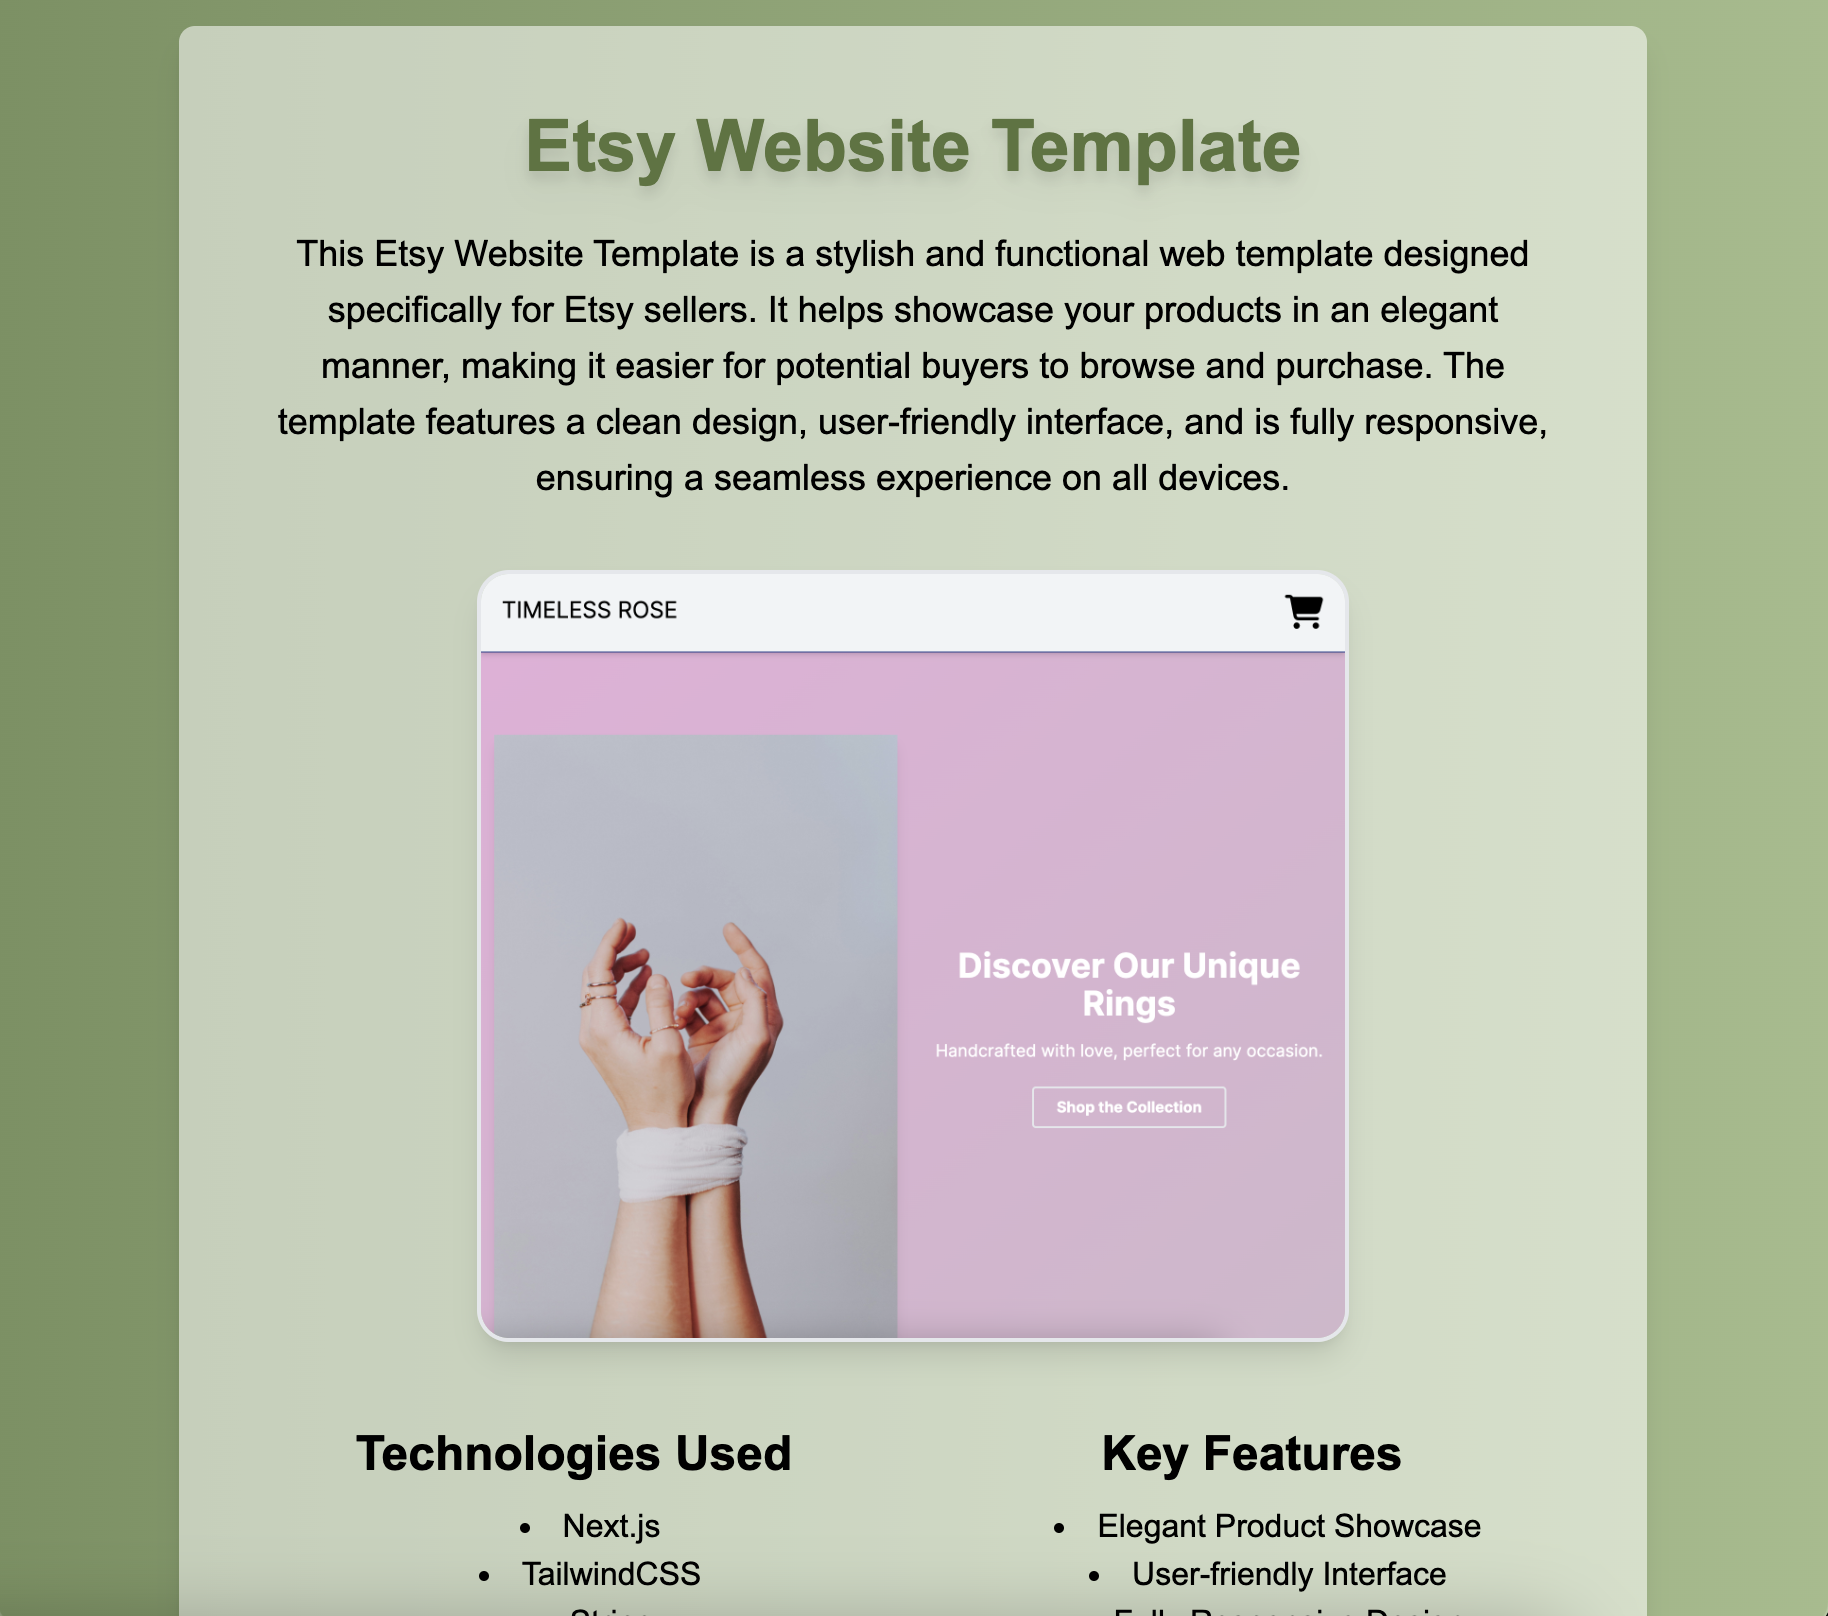
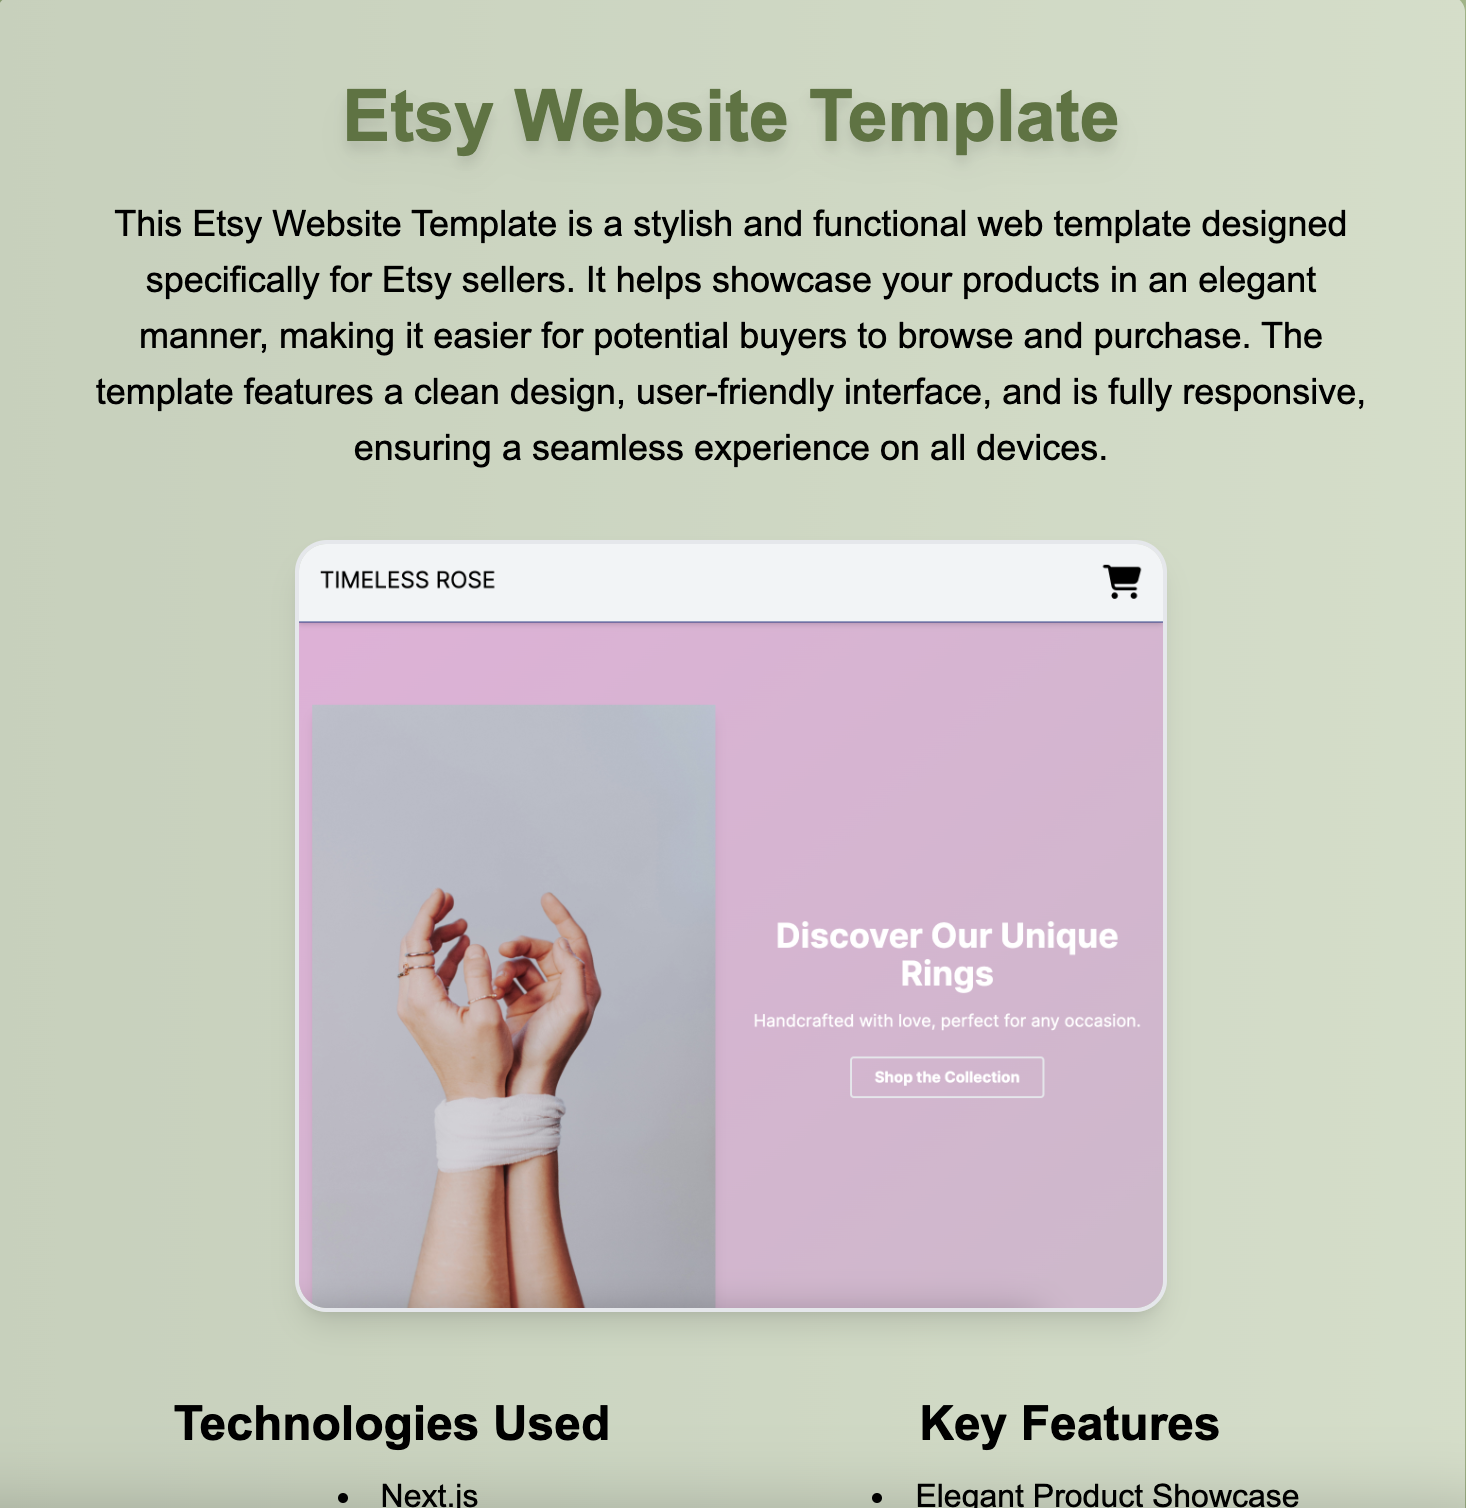
Website Improvements.

diff --git a/src/components/Projects.jsx b/src/components/Projects.jsx
@@ -9,28 +9,29 @@ export default function Projects() {
   };
 
   return (
-    <div className='flex size-fit'>
-      <div className='group1 sm:h-[15] min-h-[5vh] h-[30vh] p-6 m-4'>
-        <h1 className='flex justify-center my-4 py-2 text-gray-950 font-bold lg:text-4xl md:text-3xl sm:text-2xl text-2xl'> Personal Projects</h1>
-        <div className='min-h-[300px] w-full grid py-6 gap-6 md:grid-cols-4 sm:grid-cols-3 grid-cols-2'>
-          {projects.map(project => (
-            <div key={project.id} className='relative border border-spacing-1 sm
-            :h-[200px] min-h-[25px] transparent rounded-md overflow-hidden'>
-              <Link to={project.detailsPage} className='fill-transparent w-full h-full group2'>
-                <img src={project.image} alt={project.title} className='sm:blur-xs group1-hover:blur-0 duration-100 w-full h-full object-cover rounded-md' />
-                <div 
-                  className='absolute bottom-2 right-2 sm:opacity-0 group2-hover:opacity-100 duration-200 cursor-default'
-                  onClick={() => handleGitHubClick(project.githubLink)}
-                >
-                    <i className="fa-brands fa-github text-3xl text-black"></i>
-                </div>
-                <div className='absolute w-full top-0 left-1/2 transform -translate-x-1/2 bg-gradient-to-b from-[#2e3725] to-black bg-opacity-70 text-center text-white text-lg font-bold sm:opacity-0 group2-hover:opacity-100 duration-200 rounded-md'>
-                  {project.title}
-                </div>
-              </Link>
-            </div>
-          ))}
-        </div>
+    <div className='flex flex-col min-h-screen'>
+      <div className='flex-grow w-full text-center flex flex-col'>
+        <main className="container mx-auto py-6">
+          <h1 className='flex justify-center my-8 py-2 text-gray-950 font-bold lg:text-4xl md:text-3xl sm:text-2xl text-2xl'>Personal Projects</h1>
+          <div className='w-full grid py-6 gap-6 md:grid-cols-4 sm:grid-cols-3 grid-cols-2'>
+            {projects.map(project => (
+              <div key={project.id} className='relative border border-spacing-1 min-h-[200px] transparent rounded-md overflow-hidden'>
+                <Link to={project.detailsPage} className='fill-transparent w-full h-full group'>
+                  <img src={project.image} alt={project.title} className='duration-100 w-full h-full object-cover rounded-md' />
+                  <div 
+                    className='absolute bottom-2 right-2 sm:opacity-0 group-hover:opacity-100 duration-200 cursor-default'
+                    onClick={() => handleGitHubClick(project.githubLink)}
+                  >
+                      <i className="fa-brands fa-github text-3xl text-black"></i>
+                  </div>
+                  <div className='absolute w-full top-0 left-1/2 transform -translate-x-1/2 bg-gradient-to-b from-[#2e3725] to-black bg-opacity-70 text-center text-white text-lg font-bold sm:opacity-0 group-hover:opacity-100 duration-200 rounded-md'>
+                    {project.title}
+                  </div>
+                </Link>
+              </div>
+            ))}
+          </div>
+        </main>
       </div>
     </div>
   );

diff --git a/src/pages/Proj1.jsx b/src/pages/Proj1.jsx
@@ -9,7 +9,7 @@ function Proj1() {
         
         {/* Text Section */}
         <div className="relative z-10 p-4">
-          <h2 className="text-4xl font-extrabold mb-5 text-custom-green-dark drop-shadow-lg underline decoration-custom-green-light decoration-4">
+          <h2 className="text-4xl font-extrabold mb-5 text-custom-green-dark drop-shadow-lg decoration-custom-green-light decoration-4">
             Etsy Website Template
           </h2>
           <p className="text-lg mb-4">

diff --git a/src/components/Footer.jsx b/src/components/Footer.jsx
@@ -4,7 +4,7 @@ import { Link } from 'react-router-dom';
 function Footer({ children }) {
   return (
     <div className="text-black flex flex-col min-h-screen">
-      <div className="flex-grow max-w-[750px] m-auto w-full text-center flex flex-col">
+      <div className="flex-grow w-full m-auto text-center flex flex-col">
         <main className="flex-grow container mx-auto p-2">
           {children}
         </main>
